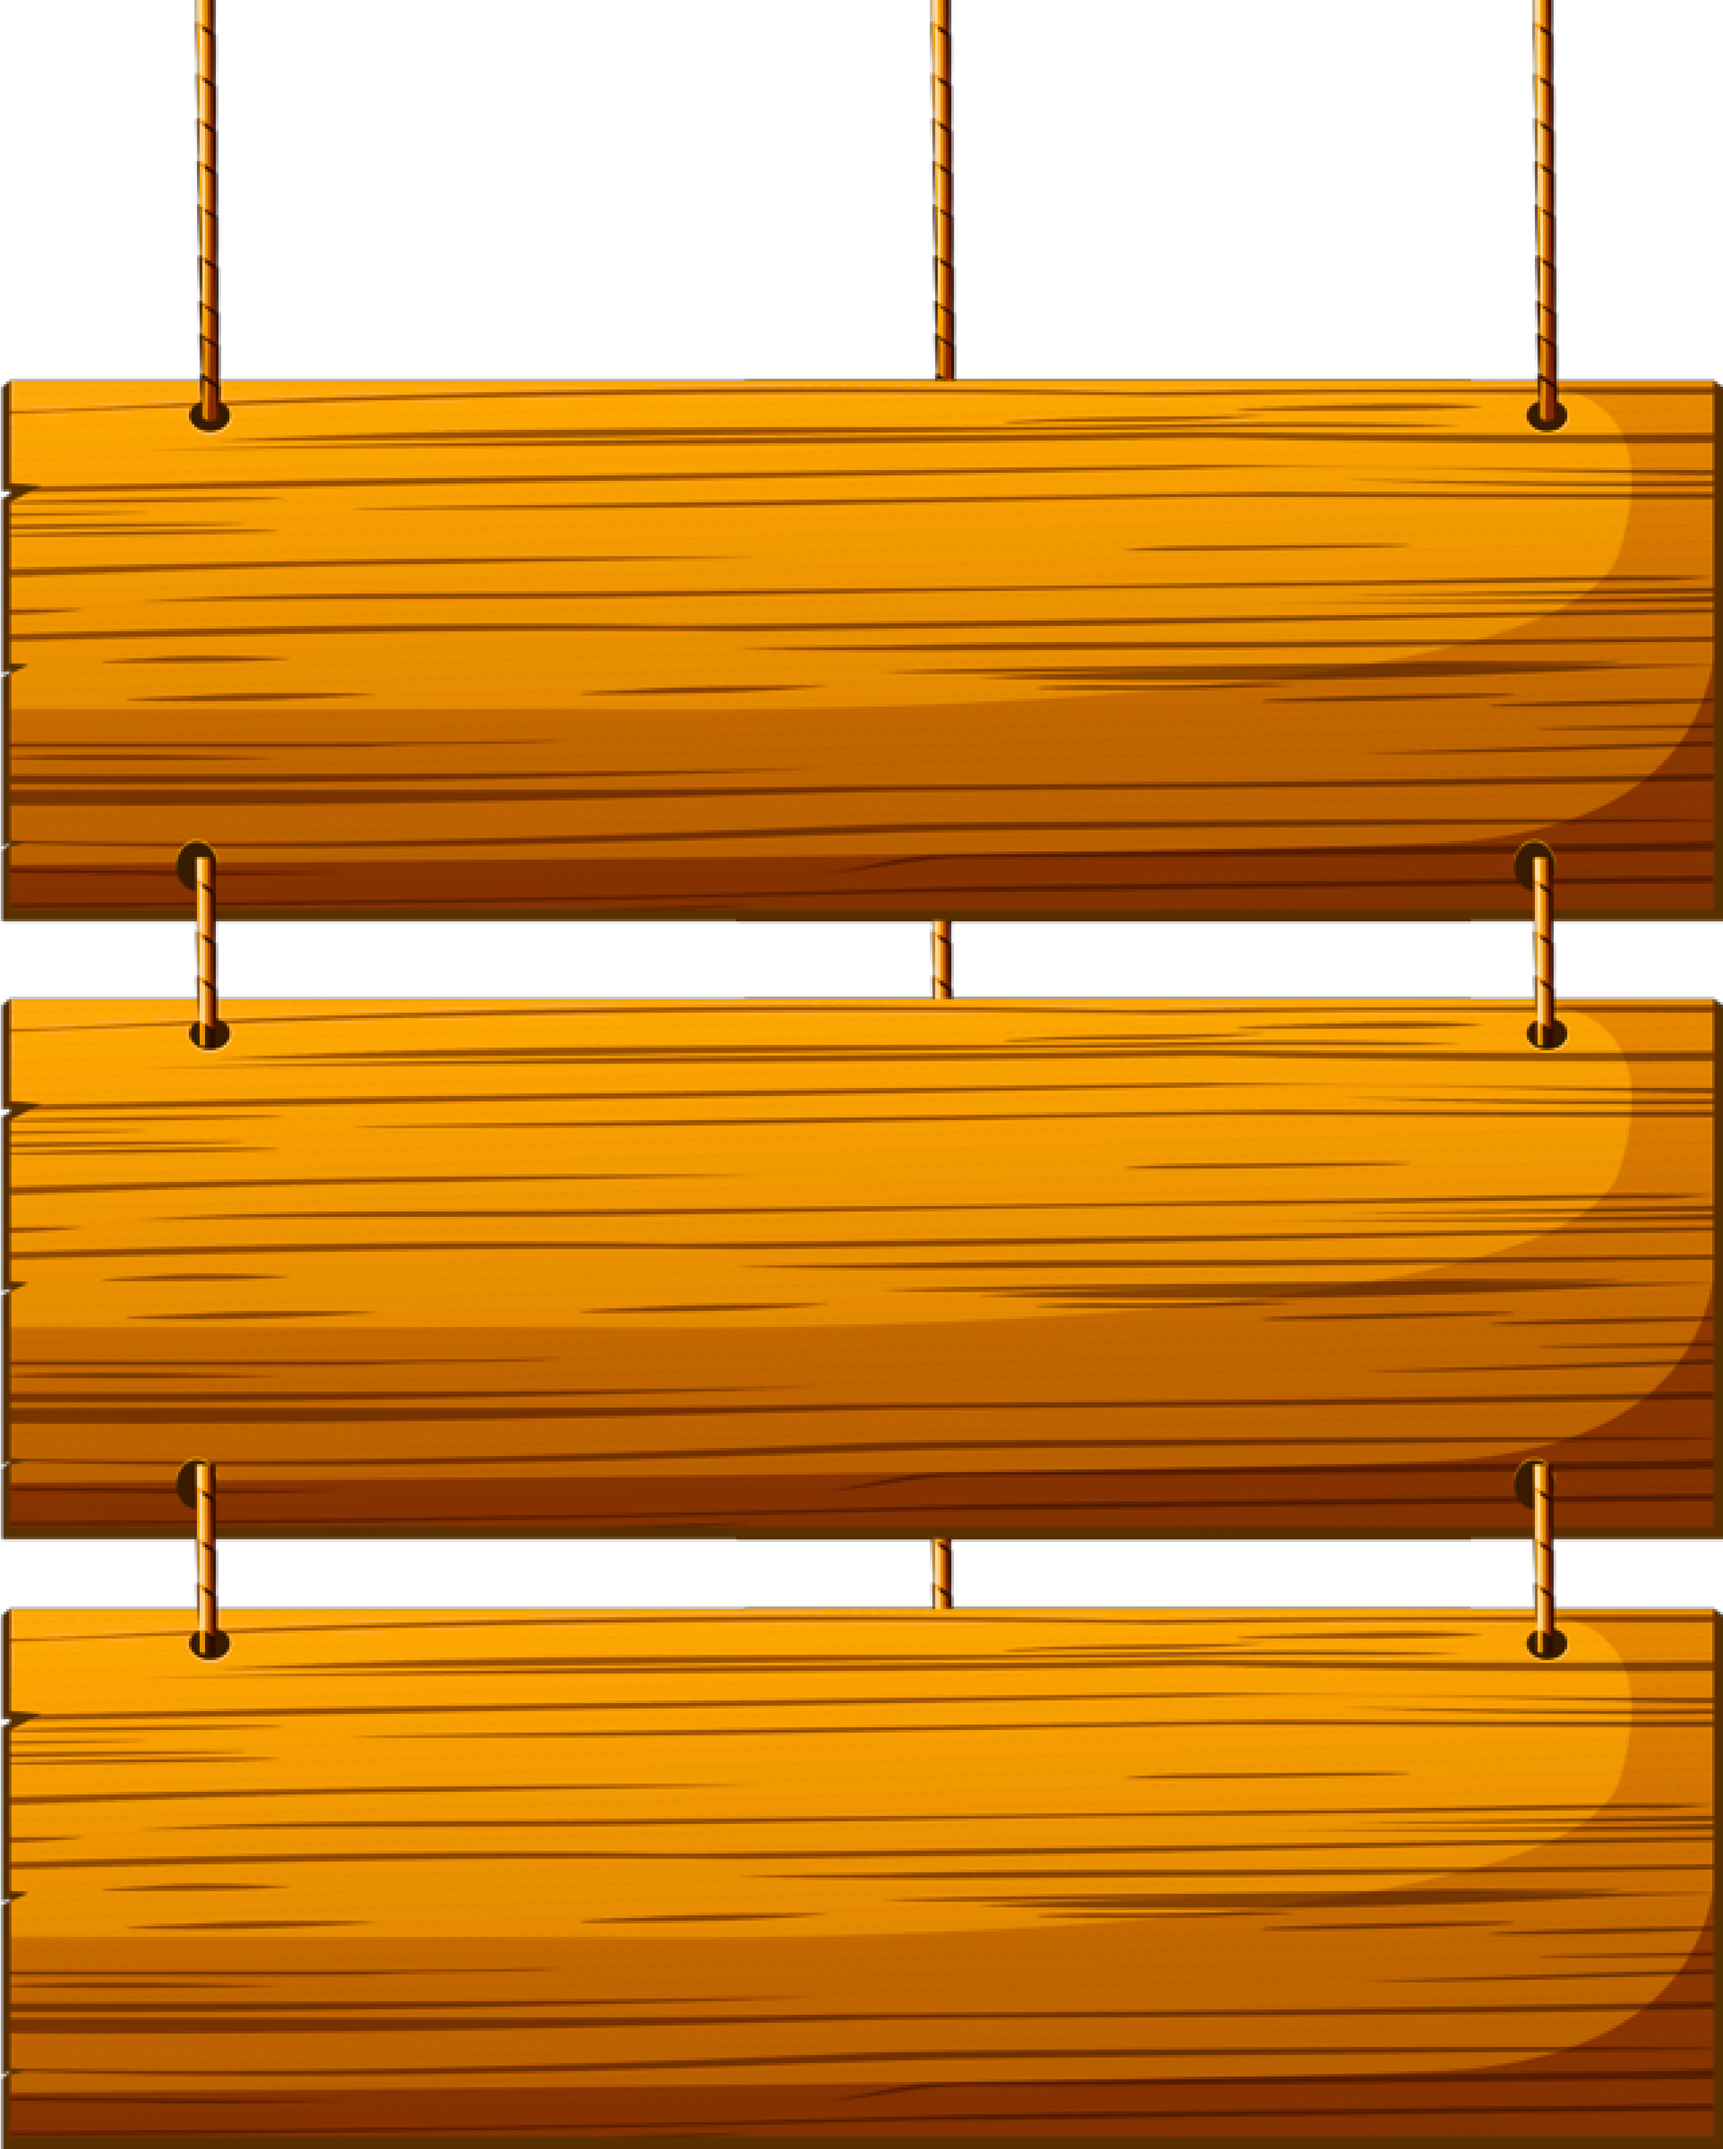
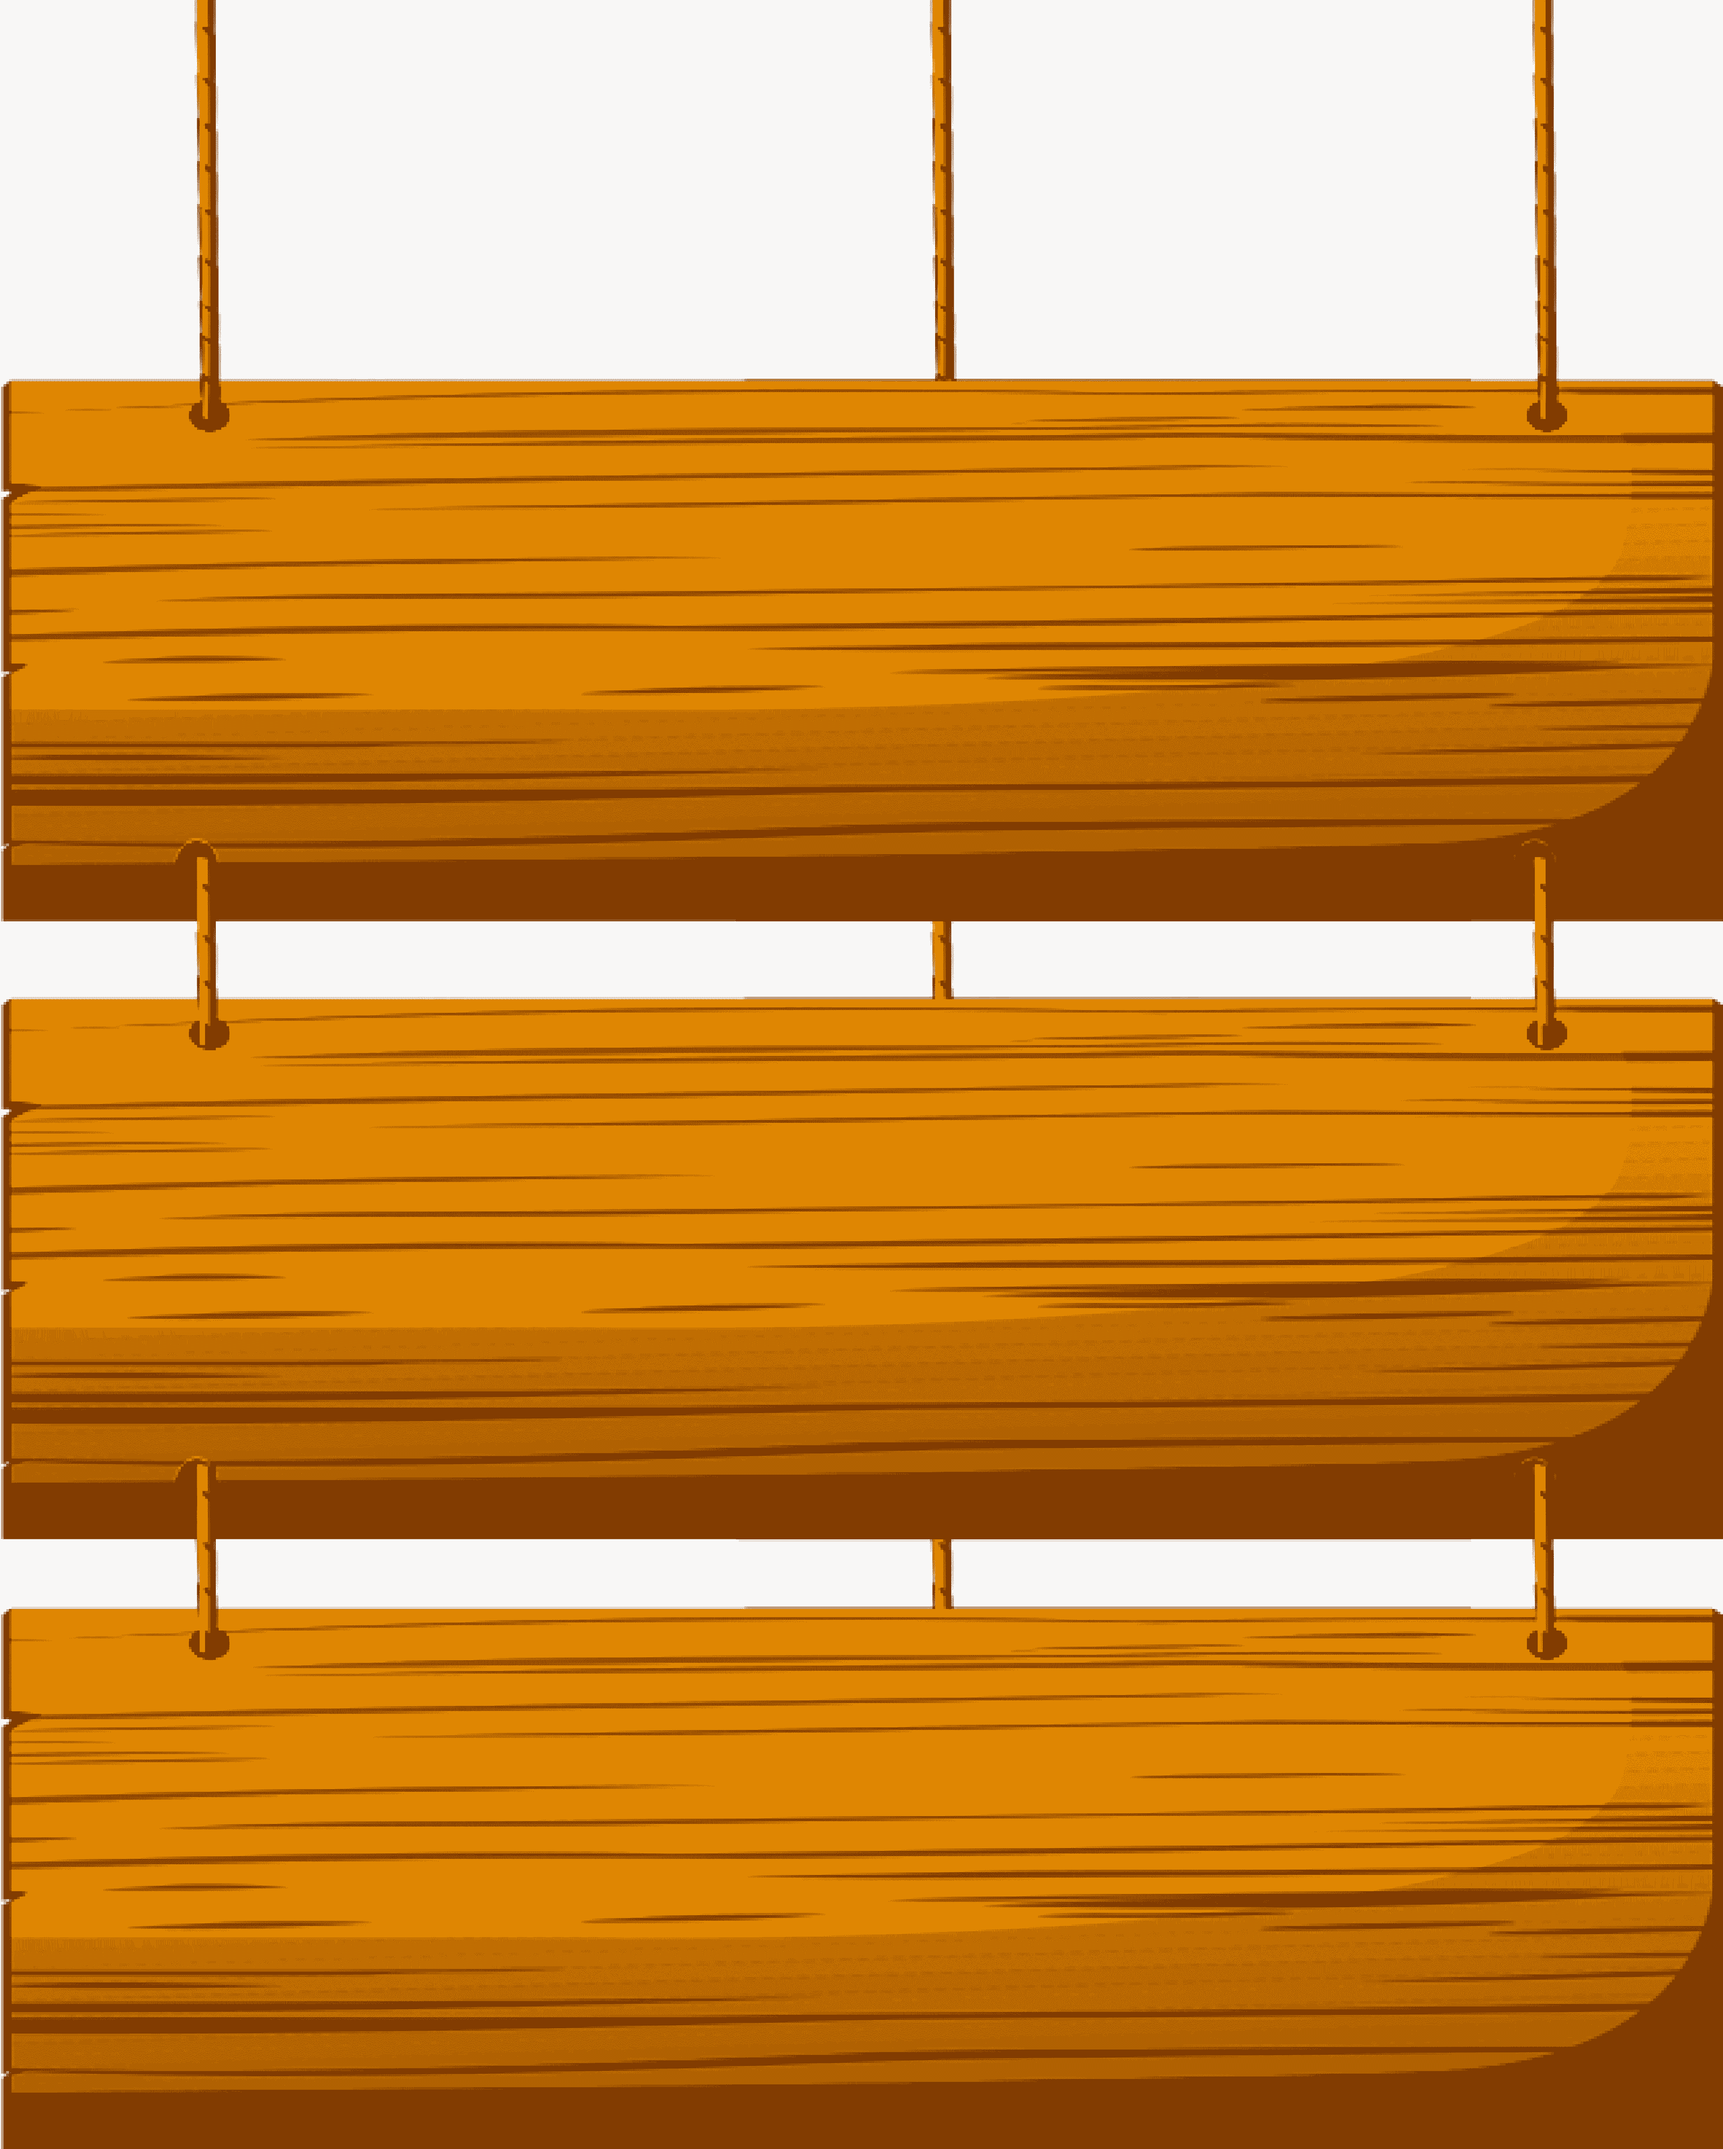
troca de walpapper, reducao de mb das imagens, correcao das variaveis do modo solo(session) para evitar conflito

diff --git a/estiloindex/Personalizacao.css b/estiloindex/Personalizacao.css
@@ -3,7 +3,7 @@
 body {
     min-height: 100vh;
     width: 100%;
-    background: url("../Imagens/floresta.jpg"), lightgray;
+    background: url("../img/floresta3.jpeg"), lightgray;
     background-size: cover;
     background-repeat: no-repeat;
     background-position: center;
@@ -28,7 +28,7 @@ body {
 }
 
 .placa {
-    background-image: url("../Imagens/placa_de_jogar.png");
+    background-image: url("../Imagens/placa_de_jogar_compressed-removebg-preview.png");
     background-size: contain;
     background-repeat: no-repeat;
     background-position: center;
@@ -64,12 +64,13 @@ h1.title {
     z-index: 2;
 }
 
-h1.title span {
+h1.title span.eco {
     background: linear-gradient(180deg, #1AFF15 0%, rgba(6, 255, 1, 0.90) 0.01%, #05FF00 0.02%, #105105 100%);
     background-clip: text;
     -webkit-background-clip: text;
     -webkit-text-fill-color: transparent;
 }
+
 
 a.jogar {
     display: flex;

diff --git a/estilo/css.css b/estilo/css.css
@@ -1,7 +1,7 @@
 /* estilo.css */
 
 body {
-    background-image: url("../Imagens/floresta.jpg"); 
+    background-image: url("../img/floresta3.jpeg"); /*fundo do jogo*/ 
     background-size: cover;
     font-family: 'Arial', sans-serif;
     color: #fff;
@@ -10,12 +10,6 @@ body {
     padding: 0;
 }
 
-
-h1 {
-    font-size: 36px;
-    margin-top: 20px;
-    color: #cee807;
-}
 
 .game {
     background-color: hsl(95, 42%, 31%);
@@ -94,7 +88,7 @@ h1 {
     height: 100px; /* Ajuste a altura conforme necessário */
     line-height: 100px; /* Ajuste a linha central conforme necessário */
     font-size: 24px; /* Ajuste o tamanho da fonte conforme necessário */
-     margin-left: 550px; /* Mova 20 pixels para a direita */
+    margin-left: 550px; /* Mova 20 pixels para a direita */
 
 }
 

diff --git a/Index.html b/Index.html
@@ -7,12 +7,14 @@
     <link rel="preconnect" href="https://fonts.googleapis.com">
     <link rel="preconnect" href="https://fonts.gstatic.com" crossorigin>
     <link href="https://fonts.googleapis.com/css2?family=Luckiest+Guy&display=swap" rel="stylesheet">
+    <link rel="icon" href="img/monkey.png" type="image/x-icon">
+
     <title>EcoForca</title>
 </head>
 <body>
     <div class="placa"></div>
     <div class="moldura"></div>
-    <h1 class="title">Eco<span>Forca</span></h1>
+    <h1 class="title"><span class="eco">Eco</span><span>Forca</span></h1>
     <a class="jogar" href="opcoes.html">Jogar</a>
 </body>
 </html>

diff --git a/opcoes.html b/opcoes.html
@@ -7,6 +7,8 @@
     <link rel="preconnect" href="https://fonts.googleapis.com">
     <link rel="preconnect" href="https://fonts.gstatic.com" crossorigin>
     <link href="https://fonts.googleapis.com/css2?family=Luckiest+Guy&display=swap" rel="stylesheet">
+    <link rel="icon" href="img/monkey.png" type="image/x-icon">
+
     <title>Menu</title>
 </head>
 <body>

diff --git a/solo.php b/solo.php
@@ -11,8 +11,6 @@
 
 <div id="jogo" class="game">
     <?php
-    header("Cache-Control: no-store, no-cache, must-revalidate");
-    header("Pragma: no-cache");
     session_start(); // Inicializa a sessão para rastrear o estado do jogo
 
     // Array associativo de palavras relacionadas ao meio ambiente e suas dicas
@@ -29,20 +27,20 @@
         "carbono" => "Elemento químico presente em combustíveis fósseis"
     );
 
-    // Inicialização das variáveis de sessão
-    if (!isset($_SESSION['nivel'])) {
+    // Inicialização das variáveis de sessão para o modo "Solo"
+    if (!isset($_SESSION['solo_nivel'])) {
         session_destroy();
         session_start();
-        $_SESSION['nivel'] = 1;
-        $_SESSION['erros'] = 0;
-        $_SESSION['letrasAdivinhadas'] = array();
-        $_SESSION['palavrasUsadas'] = array();
-        gerarPalavraENovaDica($palavrasComDicas);
+        $_SESSION['solo_nivel'] = 1;
+        $_SESSION['solo_erros'] = 0;
+        $_SESSION['solo_letrasAdivinhadas'] = array();
+        $_SESSION['solo_palavrasUsadas'] = array();
+        gerarPalavraENovaDica($palavrasComDicas, 'solo_');
     }
 
     // Verifica se é o início do jogo
-    if ($_SESSION['erros'] == 0) {
-        $_SESSION['erros'] = 1; // Define o número de erros para 1 no início do jogo
+    if ($_SESSION['solo_erros'] == 0) {
+        $_SESSION['solo_erros'] = 1; // Define o número de erros para 1 no início do jogo
     }
 
     // Função para verificar se a letra está na palavra
@@ -51,37 +49,37 @@
     }
 
     // Função para gerar uma nova palavra e dica
-    function gerarPalavraENovaDica(&$palavrasComDicas) {
+    function gerarPalavraENovaDica(&$palavrasComDicas, $prefixo) {
         do {
             $palavraComDica = array_rand($palavrasComDicas);
-        } while (in_array($palavraComDica, $_SESSION['palavrasUsadas']));
+        } while (in_array($palavraComDica, $_SESSION["{$prefixo}palavrasUsadas"]));
 
-        $_SESSION['palavraSecreta'] = $palavraComDica;
-        $_SESSION['dica'] = $palavrasComDicas[$palavraComDica];
-        $_SESSION['palavrasUsadas'][] = $palavraComDica;
+        $_SESSION["{$prefixo}palavraSecreta"] = $palavraComDica;
+        $_SESSION["{$prefixo}dica"] = $palavrasComDicas[$palavraComDica];
+        $_SESSION["{$prefixo}palavrasUsadas"][] = $palavraComDica;
     }
 
     // Exibir a imagem forca1 no início do jogo
-    $numErros = min($_SESSION['erros'], 5);
+    $numErros = min($_SESSION['solo_erros'], 5);
 
     if ($_SERVER['REQUEST_METHOD'] === 'POST') {
         if (isset($_POST['letra'])) {
             $letra = mb_strtolower($_POST['letra'], 'UTF-8'); // Converte a letra para minúscula com suporte a caracteres acentuados
             if (preg_match('/^[a-z]$/', $letra)) {
-                if (!in_array($letra, $_SESSION['letrasAdivinhadas'])) {
-                    $_SESSION['letrasAdivinhadas'][] = $letra;
-                    if (!letraEstaNaPalavra($letra, $_SESSION['palavraSecreta'])) {
-                        $_SESSION['erros']++;
+                if (!in_array($letra, $_SESSION['solo_letrasAdivinhadas'])) {
+                    $_SESSION['solo_letrasAdivinhadas'][] = $letra;
+                    if (!letraEstaNaPalavra($letra, $_SESSION['solo_palavraSecreta'])) {
+                        $_SESSION['solo_erros']++;
                     }
                 }
             }
         }
     }
 
-    $palavraSecreta = htmlspecialchars($_SESSION['palavraSecreta'], ENT_QUOTES, 'UTF-8');
-    $letrasAdivinhadas = $_SESSION['letrasAdivinhadas'];
-    $erros = $_SESSION['erros'];
-    $nivel = $_SESSION['nivel'];
+    $palavraSecreta = htmlspecialchars($_SESSION['solo_palavraSecreta'], ENT_QUOTES, 'UTF-8');
+    $letrasAdivinhadas = $_SESSION['solo_letrasAdivinhadas'];
+    $erros = $_SESSION['solo_erros'];
+    $nivel = $_SESSION['solo_nivel'];
 
     if ($erros >= 6) {
         // O jogador perdeu
@@ -91,30 +89,24 @@
         // Inserir a imagem
         echo "<img src='img/forca6.png' alt='Imagem de derrota' width='300' height='300' style='margin-left: 82px;'>";
         echo"<br>";
-        echo "<a href='index.html' style='background-color: hsl(51, 91%, 9%); color: #fff; font-size: 20px; border: none; border-radius: 5px; padding: 10px 20px; cursor: pointer; text-decoration: none;'>Voltar para a Página Inicial</a>"; // no css n tava pegando o estilo
-    }
-    
-        else {
+        echo "<a href='index.html' style='background-color: hsl(51, 91%, 9%); color: #fff; font-size: 20px; border: none; border-radius: 5px; padding: 10px 20px; cursor: pointer; text-decoration: none;'>Voltar para a Página Inicial</a>";
+    } else {
         // O jogo continua
         echo "<div class='palavra-container'>";
-        echo '<a href="index.html" style="text-decoration: none; margin-right: 20px;">';
-        echo '</a>';
-        
         echo "<p class='nivel' style='margin-left: 700px; display: inline-block;'>Nível: $nivel</p>";
-        echo "<p>Palavra: " . atualizarPalavraExibida($palavraSecreta, $letrasAdivinhadas) . "</p>";
+        echo "<p>Palavra: " . atualizarPalavraExibida($palavraSecreta, $letrasAdivinhadas) . "</p";
 
         // Mostrar as letras erradas
-
-        // Adicione a animação da forca aqui
-        $numErros = min($erros, 5); // Certifique-se de que não ultrapasse 5
+        $numErros = min($erros, 5);
 
         // Exibe a dica com um balão de dica
-        echo "<p>Dica: " . $_SESSION['dica'] . "</p>";
+        echo"<br>";
+        echo "<p>Dica: " . $_SESSION['solo_dica'] . "</p>";
 
         // Mostrar as letras erradas
         echo "<p>Letras erradas: ";
-        foreach ($_SESSION['letrasAdivinhadas'] as $letraAdivinhada) {
-            if (!letraEstaNaPalavra($letraAdivinhada, $_SESSION['palavraSecreta'])) {
+        foreach ($_SESSION['solo_letrasAdivinhadas'] as $letraAdivinhada) {
+            if (!letraEstaNaPalavra($letraAdivinhada, $_SESSION['solo_palavraSecreta'])) {
                 echo strtoupper($letraAdivinhada) . " ";
             }
         }
@@ -134,10 +126,10 @@
 
             if ($nivel < 10) {
                 // Avançar para o próximo nível
-                $_SESSION['nivel']++;
-                $_SESSION['erros'] = 0;
-                gerarPalavraENovaDica($palavrasComDicas);
-                $_SESSION['letrasAdivinhadas'] = array();
+                $_SESSION['solo_nivel']++;
+                $_SESSION['solo_erros'] = 0;
+                gerarPalavraENovaDica($palavrasComDicas, 'solo_');
+                $_SESSION['solo_letrasAdivinhadas'] = array();
                 echo "<form method='post'>";
                 echo "<input type='submit' value='Próximo Nível'>";
                 echo "</form>";
@@ -157,9 +149,7 @@
             echo "<input type='submit' value='Adivinhar'>";
             echo "</form>";
             echo "<br>";
-            echo "<a href='index.html' style='background-color: hsl(51, 91%, 9%); color: #fff; font-size: 20px; border: none; border-radius: 5px; padding: 10px 20px; cursor: pointer; text-decoration: none;'>Menu Inicial</a>"; // no css n tava pegando o estilo
-
-
+            echo "<a href='index.html' style='background-color: hsl(51, 91%, 9%); color: #fff; font-size: 20px; border: none; border-radius: 5px; padding: 10px 20px; cursor: pointer; text-decoration: none;'>Menu Inicial</a>";
         }
 
         echo "</div>";
@@ -193,8 +183,6 @@
 
     // Chama a função para manter o scroll no jogo após o carregamento da página
     window.onload = manterScrollNoJogo;
-
-      
 </script>
 
 </body>

diff --git a/contra.php b/contra.php
@@ -27,7 +27,7 @@
         
         <?php
 
-    
+
         session_start(); // Inicializa a sessão para rastrear o estado do jogo
 
         // Array associativo de palavras relacionadas ao meio ambiente e suas dicas
